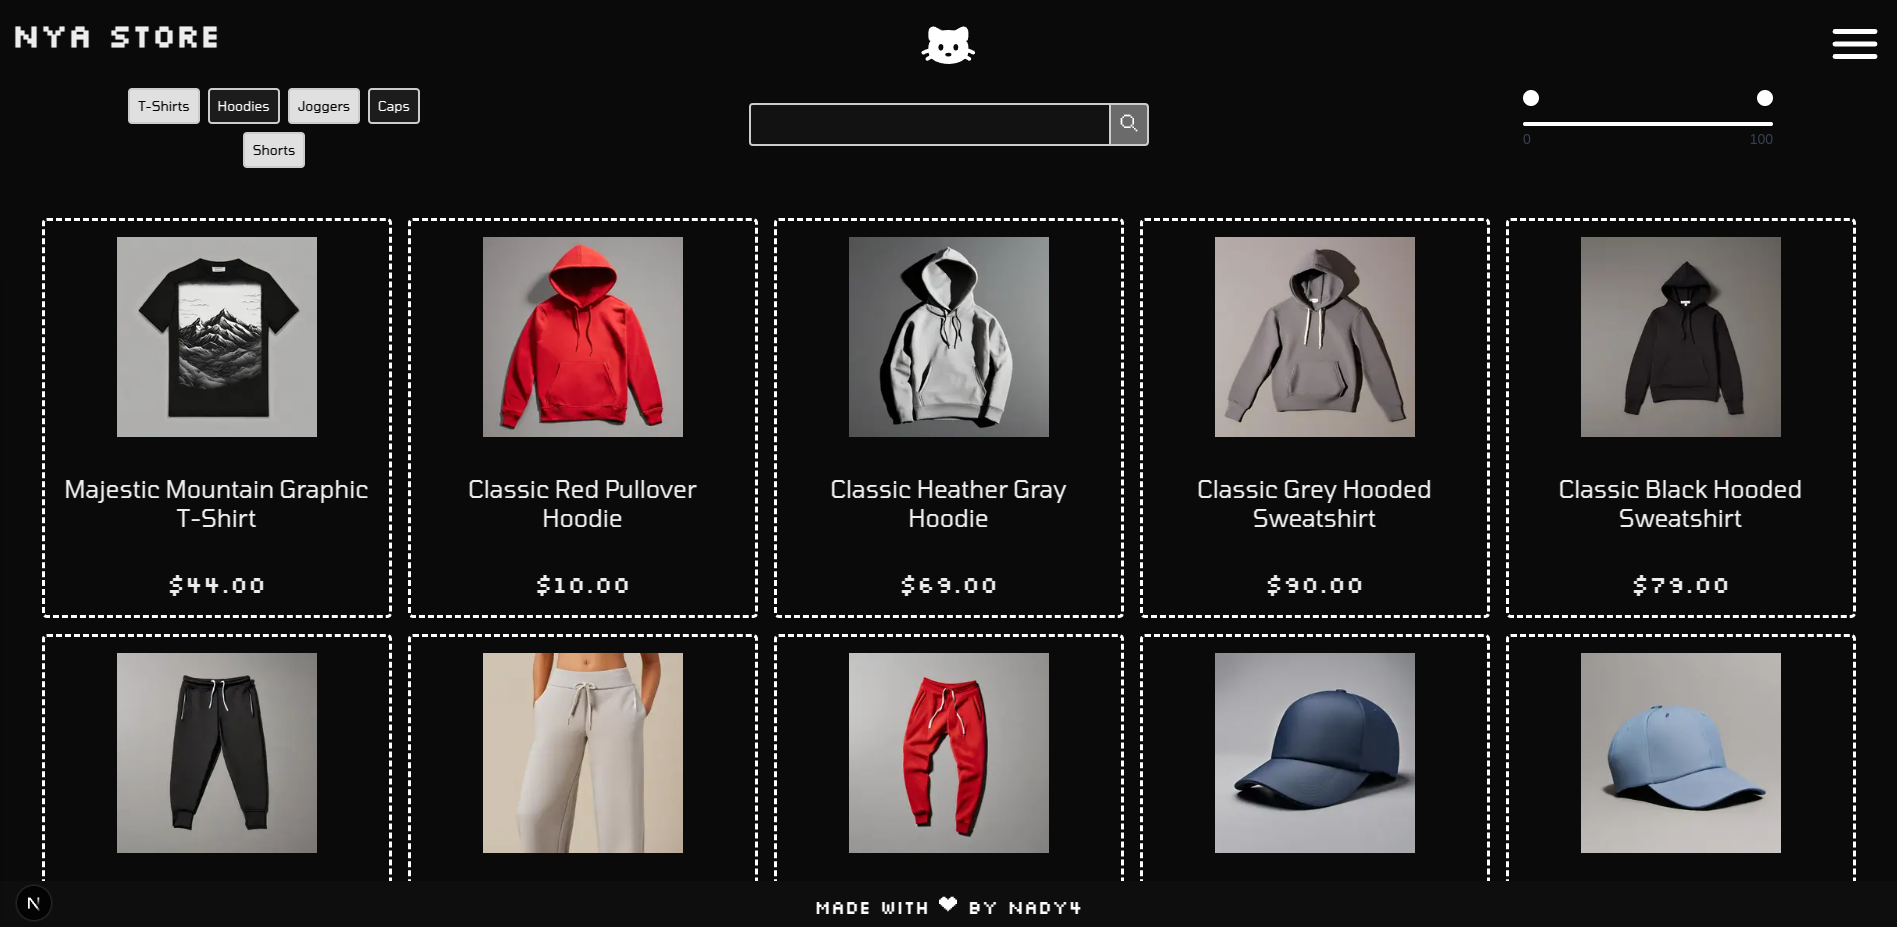
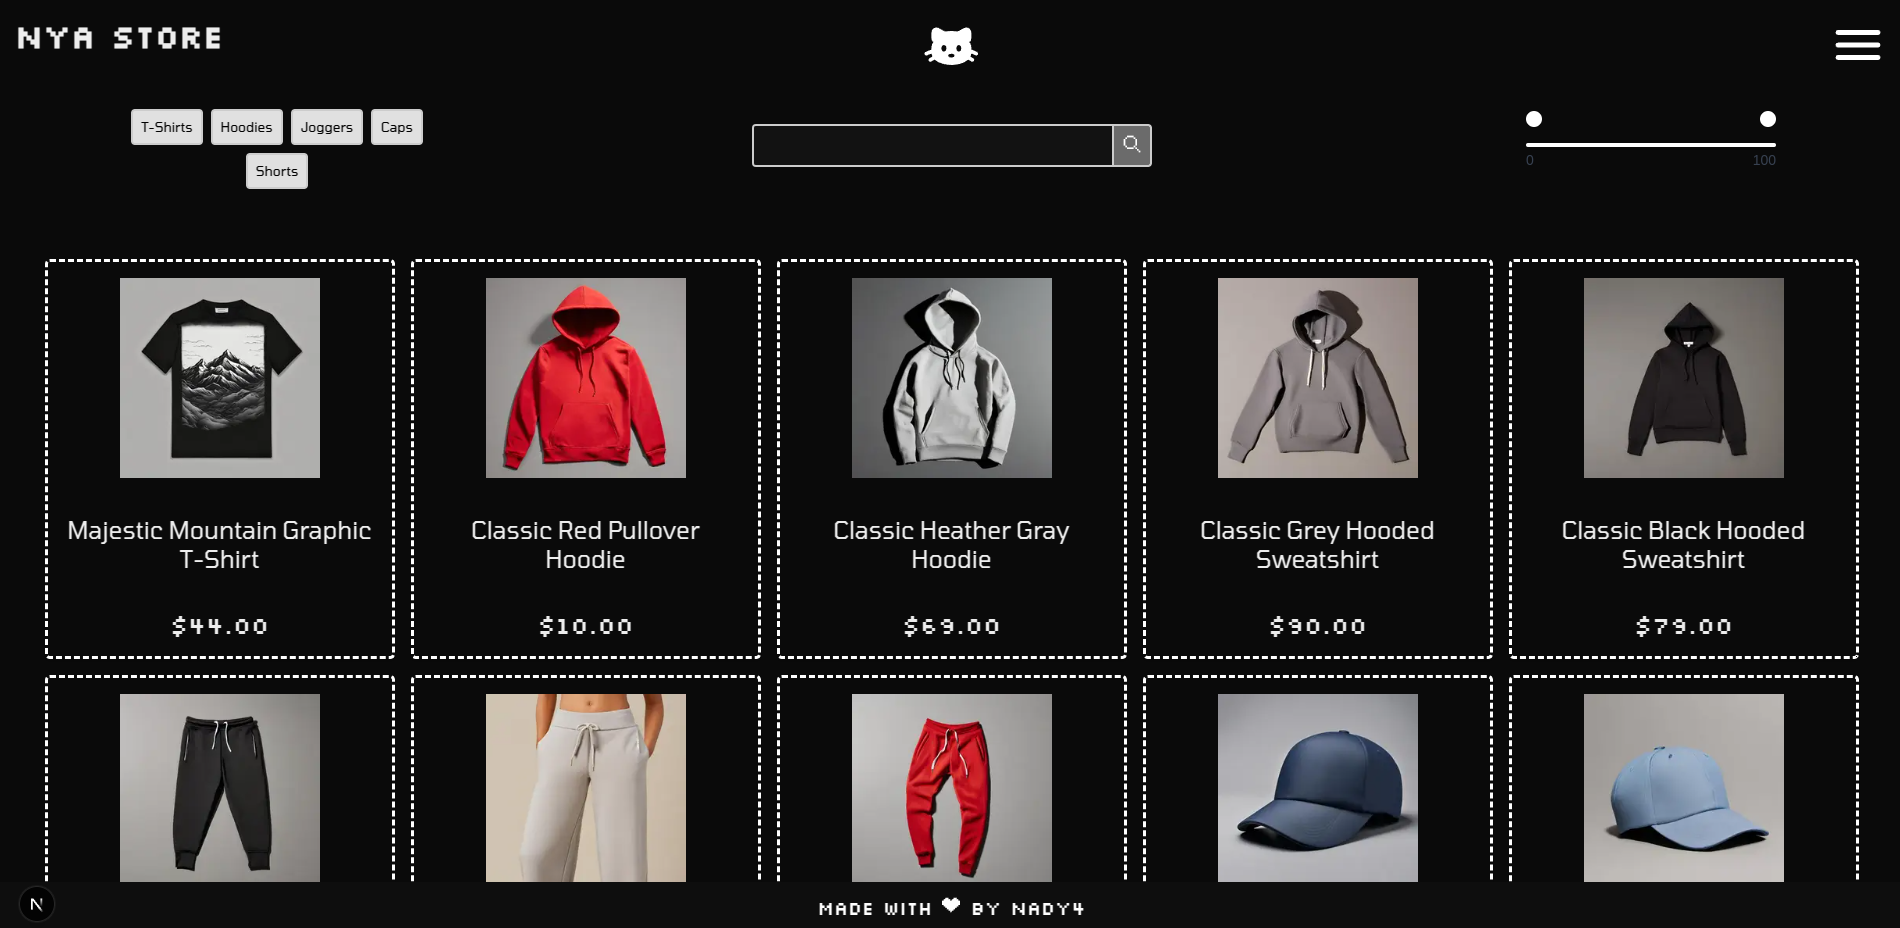
readme

diff --git a/src/styles/SearchBar.scss b/src/styles/SearchBar.scss
@@ -1,10 +1,10 @@
 .search-bar {
   width: 100%;
-  height: 60px;
+  height: 100px;
   display: flex;
   align-items: center;
   justify-content: space-between;
-  padding: 0 8rem;
+  padding: 0rem 8rem;
   position: relative;
 
   .search-box {
